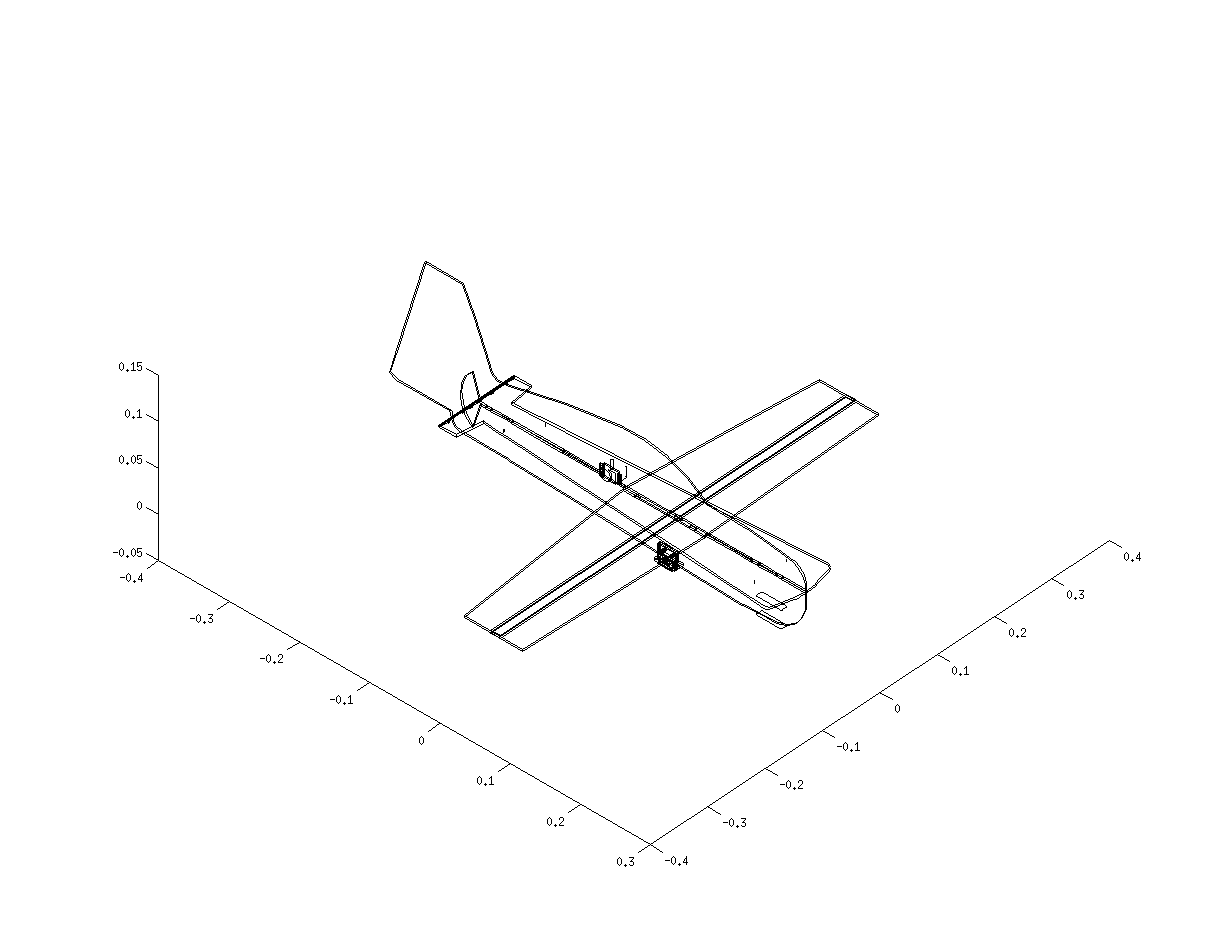
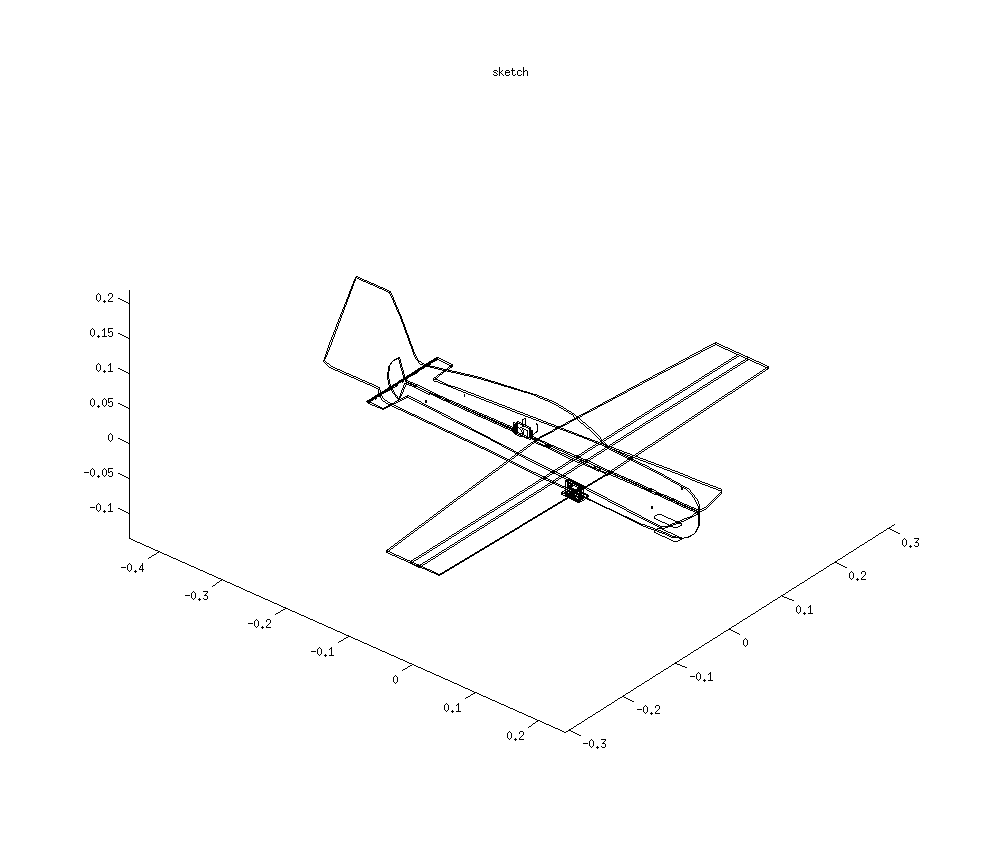
better sketch demo

diff --git a/+meshutil/sketch_mesh.m b/+meshutil/sketch_mesh.m
@@ -33,7 +33,10 @@ end
 
 figure(4)
 clf
-plot_mesh(vertices, faces);
+meshutil.plot_mesh(vertices, faces);
+axis equal
+view(40, 32)
+title('original')
 
 figure(3);
 clf;
@@ -41,5 +44,8 @@ hold on
 for j = 1:length(lines)
   plot3(lines{j}([1,4]), lines{j}([2,5]), lines{j}([3,6]), 'k-')
 end
+axis equal
+view(40, 32)
+title('sketch')
 
       

diff --git a/Readme.md b/Readme.md
@@ -12,6 +12,12 @@ Example usage:
 	>> [vertices, faces] = meshutil.toolbox_graph.read_mesh('/home/rdeits/drc/software/drake/examples/Glider/meshes/GliderFuselage.obj');
 	>> meshutil.sketch_mesh(vertices, faces);
 
+Original:
+
+![](https://rdeits.github.io/meshutil/img/glider_orig.png)
+
+Sketch:
+
 ![](https://rdeits.github.io/meshutil/img/glider_sketch.png)
 
 iris_contact_patch:
